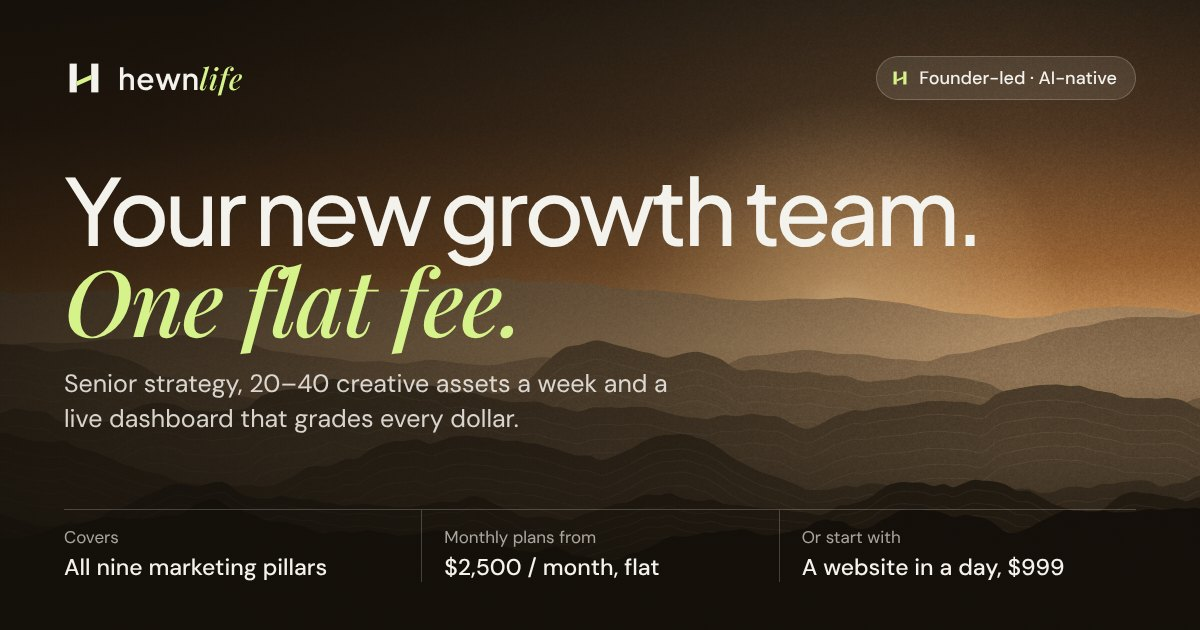
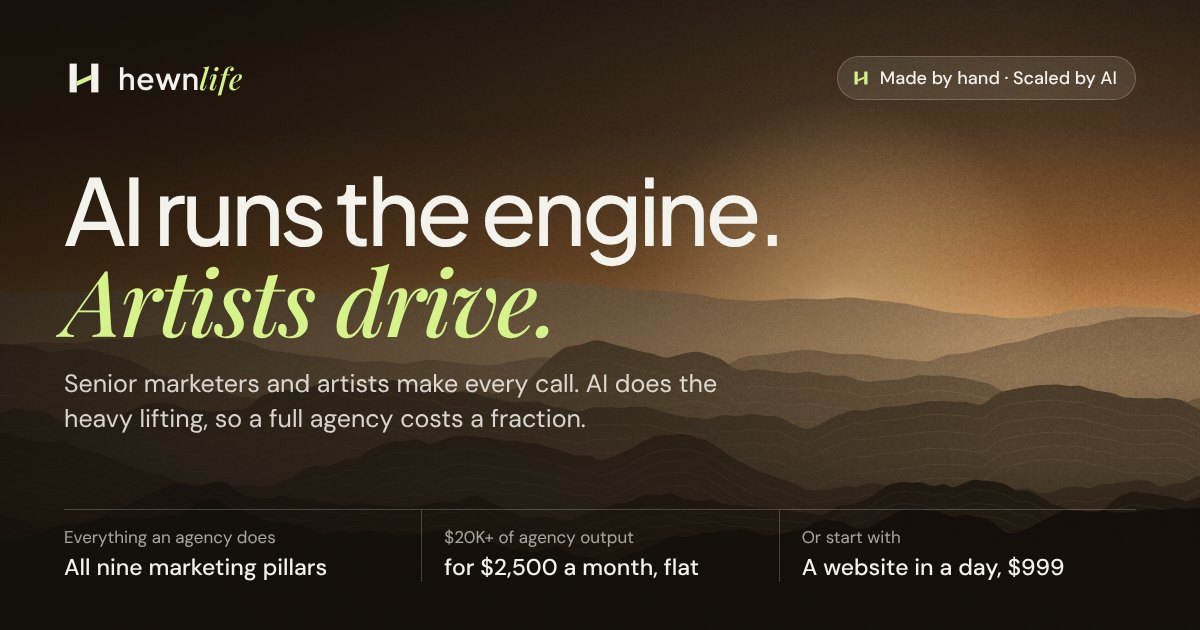
Share image copy: AI runs the engine, artists drive
Headline 'AI runs the engine. Artists drive.', the 'Made by hand ·
Scaled by AI' tag, and value lines for the bottom strip. Link title,
description and alt text updated to match.

Claude-Session: https://claude.ai/code/session_01ToKjjMr8o5kuNf76iiAmQi

diff --git a/app/layout.tsx b/app/layout.tsx
@@ -48,8 +48,8 @@ export const metadata: Metadata = {
     canonical: 'https://www.hewn.life',
   },
   openGraph: {
-    title: 'Hewn Life — Your new growth team. One flat fee.',
-    description: 'Senior strategy, 20–40 creative assets a week and a live dashboard that grades every dollar. Monthly plans from $2,500, or a website in a day for $999.',
+    title: 'Hewn Life — AI runs the engine. Artists drive.',
+    description: 'A full marketing agency, flipped: senior marketers and artists make every call while AI does the heavy lifting. $20K+ of agency output for $2,500 a month, or a website in a day for $999.',
     url: 'https://www.hewn.life',
     siteName: 'Hewn Life',
     type: 'website',
@@ -57,8 +57,8 @@ export const metadata: Metadata = {
   },
   twitter: {
     card: 'summary_large_image',
-    title: 'Hewn Life — Your new growth team. One flat fee.',
-    description: 'Senior strategy, 20–40 creative assets a week and a live dashboard that grades every dollar. Monthly plans from $2,500, or a website in a day for $999.',
+    title: 'Hewn Life — AI runs the engine. Artists drive.',
+    description: 'A full marketing agency, flipped: senior marketers and artists make every call while AI does the heavy lifting. $20K+ of agency output for $2,500 a month, or a website in a day for $999.',
   },
   robots: {
     index: true,

diff --git a/lib/og.ts b/lib/og.ts
@@ -7,5 +7,5 @@ export const ogImage = {
   url: '/opengraph-image.jpg',
   width: 1200,
   height: 630,
-  alt: 'Hewn Life — your new growth team, one flat fee.',
+  alt: 'Hewn Life — AI runs the engine. Artists drive.',
 }
